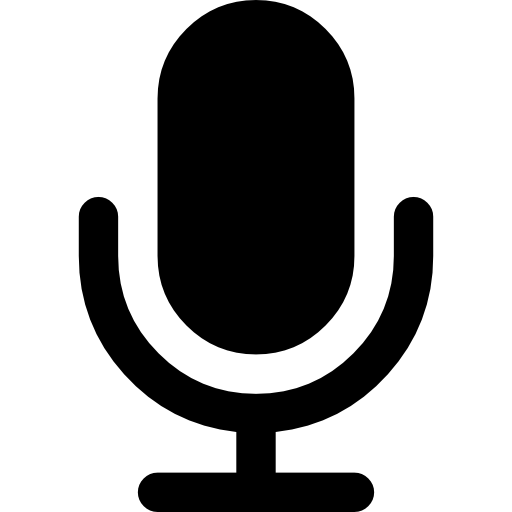
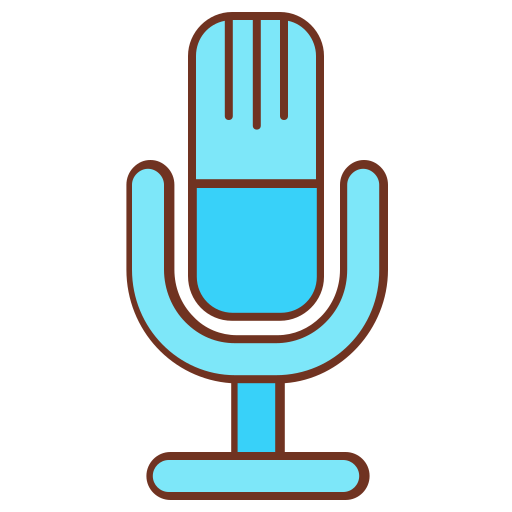
Zzzz...

diff --git a/L&P/Styles/MainStyles.xaml b/L&P/Styles/MainStyles.xaml
@@ -1,6 +1,7 @@
 <ResourceDictionary xmlns="http://schemas.microsoft.com/winfx/2006/xaml/presentation"
-                    xmlns:x="http://schemas.microsoft.com/winfx/2006/xaml">
-    <Style x:Key="ButtonMenuStyle" TargetType="Button">
+                    xmlns:x="http://schemas.microsoft.com/winfx/2006/xaml"
+                    >
+        <Style x:Key="ButtonMenuStyle" TargetType="Button">
         <Setter Property="Height" Value="70"/>
         <Setter Property="Width" Value="300"/>
         <Setter Property="HorizontalAlignment" Value="Left"/>
@@ -186,4 +187,27 @@
         <Setter Property="Width" Value="303"/>
         <Setter Property="Margin" Value="100,0,0,0"/>
     </Style>
-   </ResourceDictionary>
+    <Style x:Key="SliderStyle" TargetType="Slider">
+        <Setter Property="Template">
+            <Setter.Value>
+                <ControlTemplate TargetType="{x:Type Slider}">
+                    <Border  CornerRadius="15" BorderThickness="2" BorderBrush="DarkRed">
+                        <Grid>
+                            <Track x:Name="PART_Track" Grid.Row="1">
+                                <Track.Thumb>
+                                    <Thumb x:Name="Thumb" Width="26" Height="26">
+                                        <Thumb.Template>
+                                            <ControlTemplate TargetType="Thumb">
+                                                <Border  Background="DarkRed" BorderBrush="Transparent" BorderThickness="2" CornerRadius="15"/>
+                                            </ControlTemplate>
+                                        </Thumb.Template>
+                                    </Thumb>
+                                </Track.Thumb>
+                            </Track>
+                        </Grid>
+                    </Border>
+                </ControlTemplate>
+            </Setter.Value>
+        </Setter>
+    </Style>
+</ResourceDictionary>

diff --git a/L&P/View/Window/MainWindow.xaml b/L&P/View/Window/MainWindow.xaml
@@ -109,8 +109,8 @@
                                    VerticalAlignment="Center"
                                    FontSize="20pt"
                                    Margin="10,0,0,0"/>
-                        <Slider Minimum="0" Maximum="100" Height="30px" Width="1200" HorizontalAlignment="Left" Margin="20,20,0,0"/>
-                        <Slider Value="{Binding Volume}" Style="{StaticResource SliderStyle}" Minimum="0" Maximum="1" Height="30px" Width="150" HorizontalAlignment="Right" Margin="0,20,30,0"/>
+                        <Slider Minimum="0" Maximum="100" Style="{StaticResource SliderStyle}" Height="30px" Width="1200" HorizontalAlignment="Left" Margin="20,0,20,0"/>
+                        <Slider Value="{Binding Volume}" Style="{StaticResource SliderStyle}" Minimum="0" Maximum="1" Height="30px" Width="150" HorizontalAlignment="Right" Margin="0,0,30,0"/>
                     </DockPanel>
                 </Border>
             </DockPanel>

diff --git a/L&P/Styles/ListsStyle.xaml b/L&P/Styles/ListsStyle.xaml
@@ -8,17 +8,12 @@
         <Setter Property="HorizontalAlignment" Value="Right"/>
         <Setter Property="Margin" Value="0,0,20,0"/>
     </Style>
-    <Style x:Key="SliderStyle" TargetType="Slider">
-        <Setter Property="Height" Value="30"/>
-        <Setter Property="Background" Value="Transparent"/>
-    </Style>
     <Style x:Key="ListStyle" TargetType="ListView">
         <Setter Property="FontFamily" Value="l_p;\source\fonts\damione-regular.ttf#DaMiOne-Regular"/>
         <Setter Property="FontStyle" Value="Italic"/>
-        <Setter Property="Background" Value="Transparent"/>
+        <Setter Property="Background" Value="WhiteSmoke"/>
         <Setter Property="BorderBrush" Value="Transparent"/>
         <Setter Property="HorizontalAlignment" Value="Center"/>
-       
     </Style>
     <Style x:Key="GridViewColumnStyle" TargetType="GridViewColumnHeader">
         <Setter Property="Background" Value="White"/>

diff --git a/L&P/Styles/RegStyles.xaml b/L&P/Styles/RegStyles.xaml
@@ -91,7 +91,7 @@
                             <ColumnDefinition Width="24"></ColumnDefinition>
                             <ColumnDefinition ></ColumnDefinition>
                         </Grid.ColumnDefinitions>
-                        <Border Background="White" BorderBrush="White" BorderThickness="1" CornerRadius="0" Width="20" Height="20" VerticalAlignment="Center"  >
+                        <Border Background="Transparent" BorderBrush="Transparent" BorderThickness="1" CornerRadius="0" Width="20" Height="20" VerticalAlignment="Center"  >
                             <Grid>
                                 <Ellipse x:Name="outerEllipse" Grid.Column="0" Fill="Blue" Margin="2">
                                 </Ellipse>

diff --git a/L&P/View/UserControl/AddView.xaml b/L&P/View/UserControl/AddView.xaml
@@ -34,7 +34,7 @@
                     <StackPanel>
                         <Image
                     Style="{StaticResource UIStyle}"
-                    Source="/Source/Image/Logo.png"/>
+                    Source="/Source/UI_Icon/Music.png"/>
                         <Button
                             Margin="0,35,0,15"
                             VerticalAlignment="Bottom"
